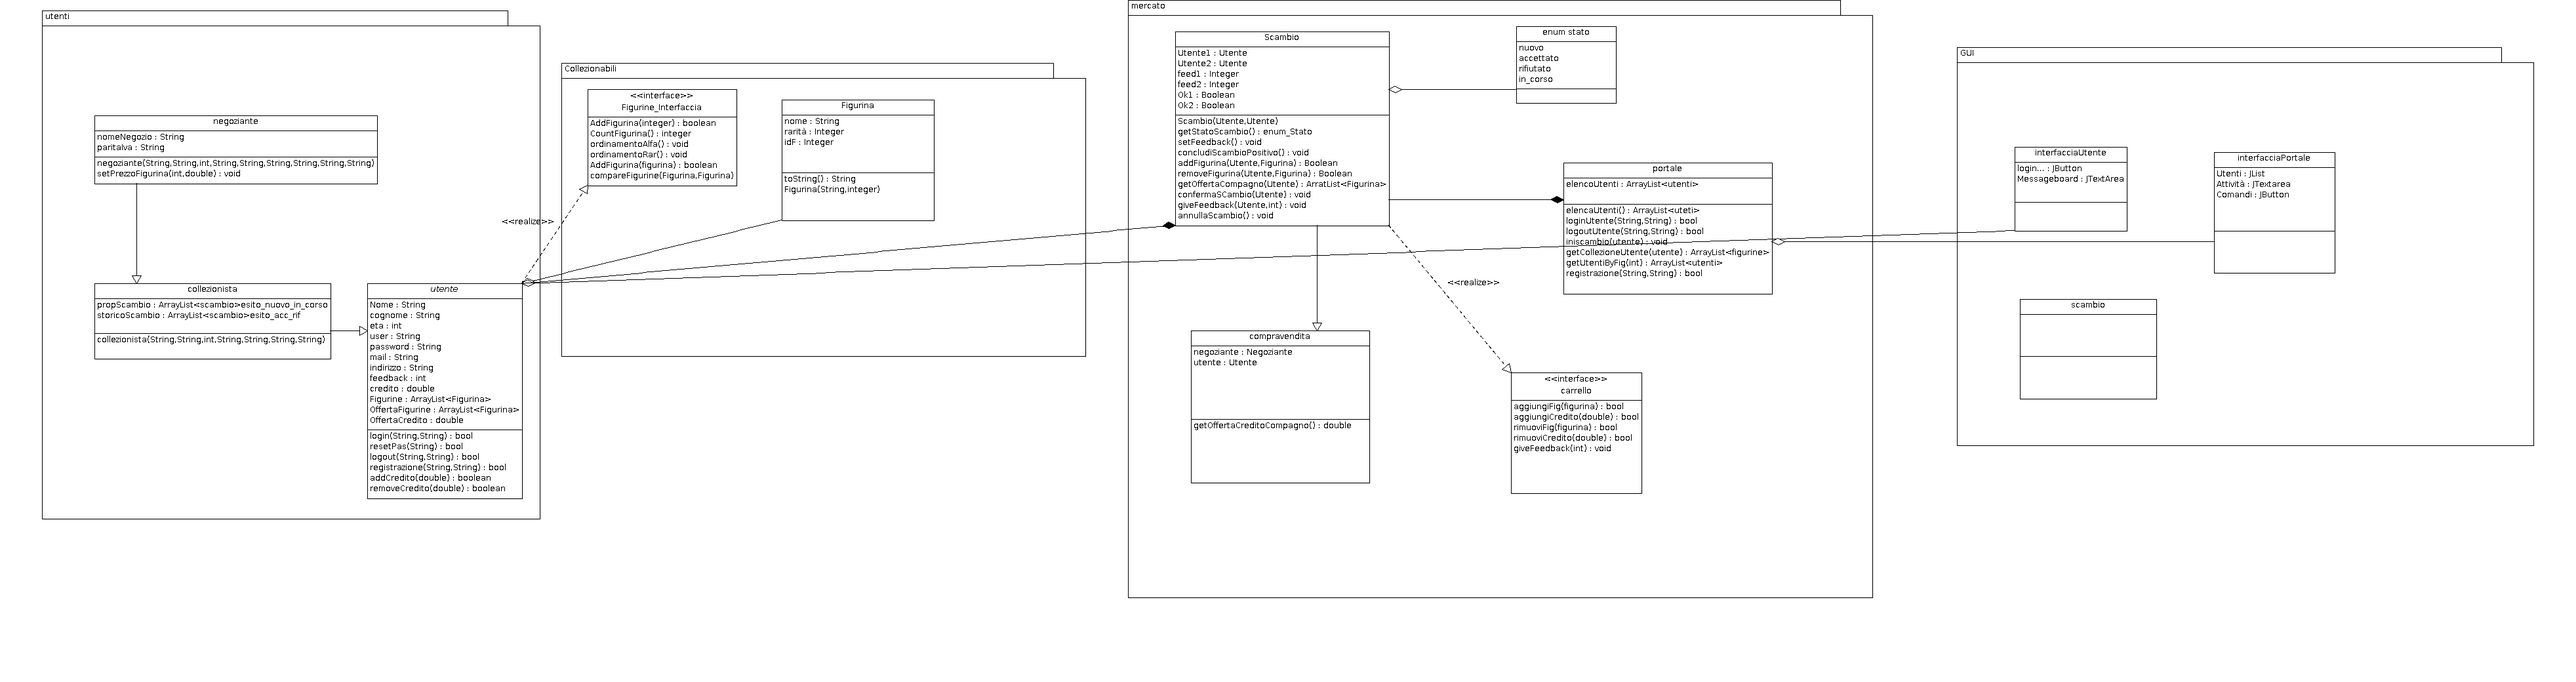
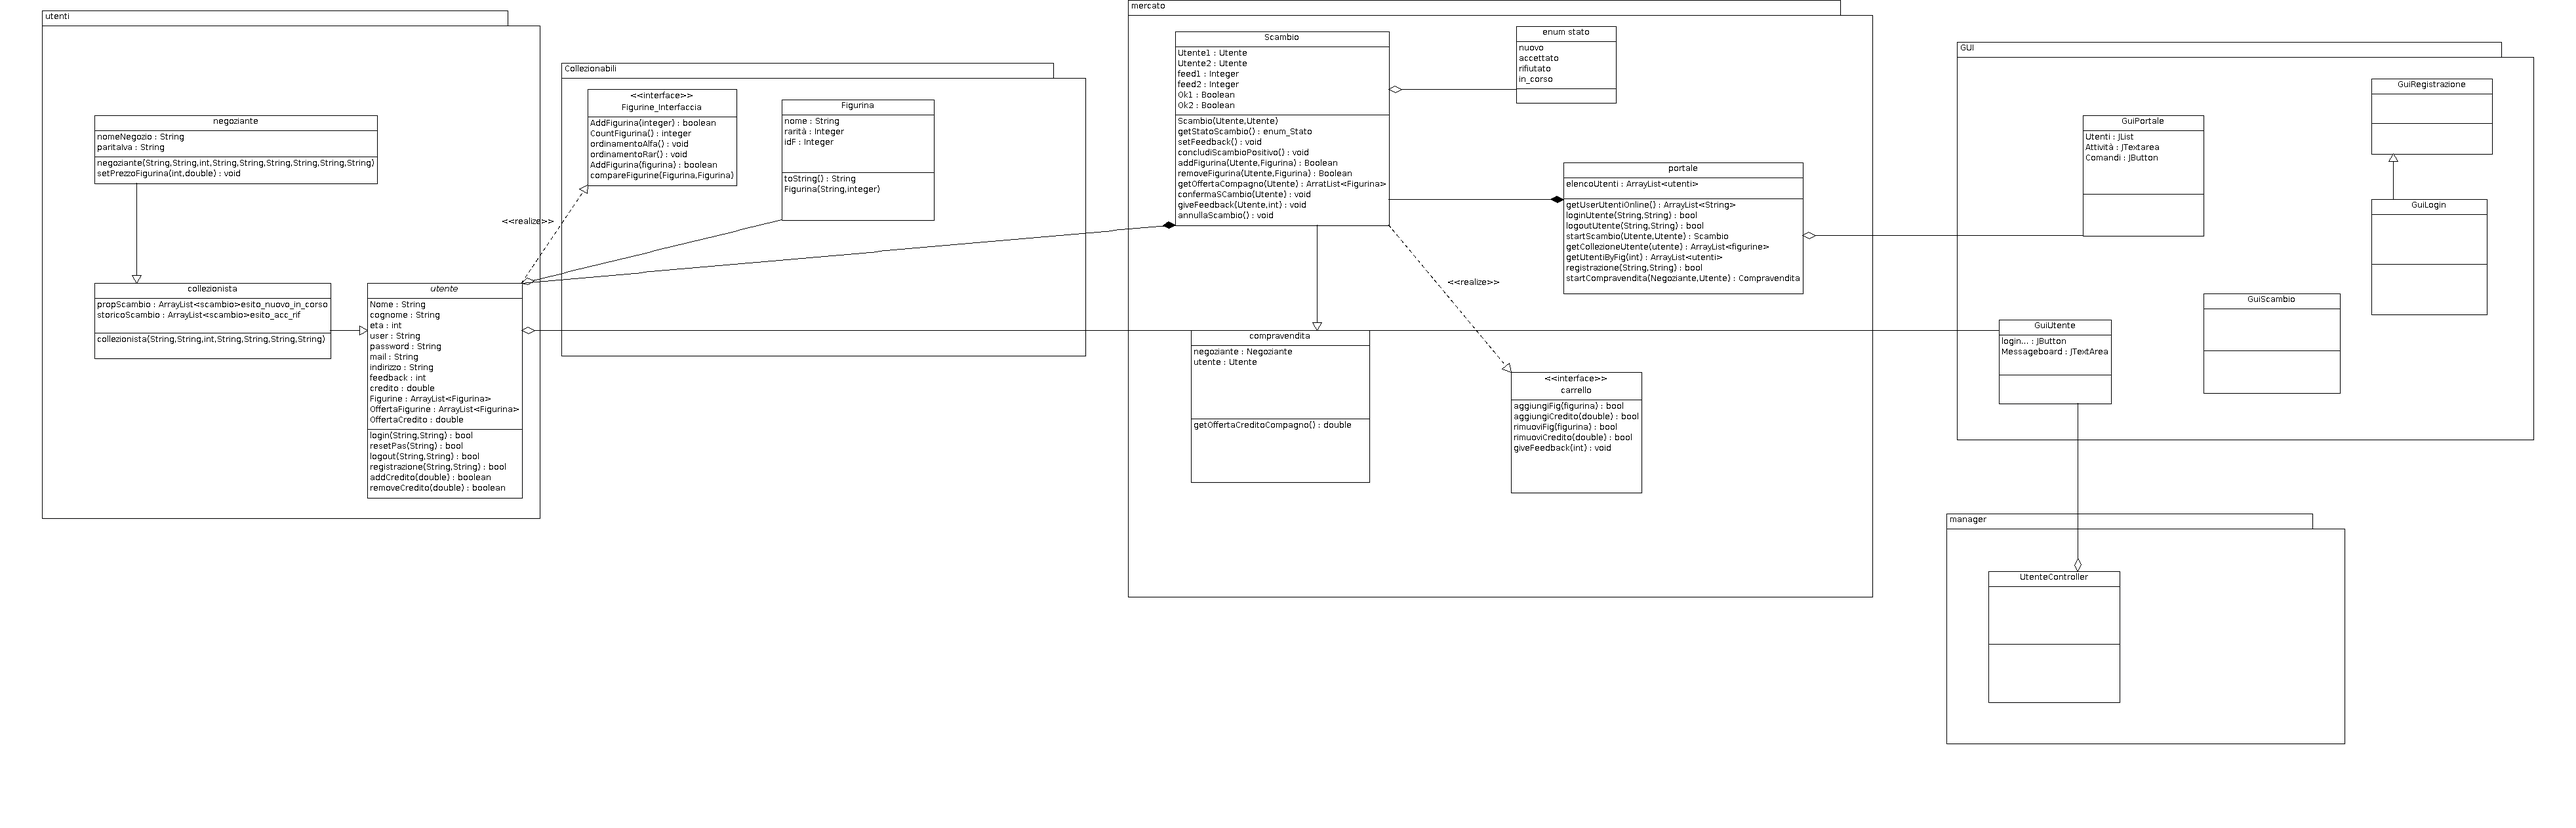
Update UML e Gui Prova

diff --git a/Figurine/src/gui/prova.java b/Figurine/src/gui/prova.java
@@ -1,0 +1,44 @@
+package gui;
+
+import java.awt.EventQueue;
+
+import javax.swing.JFrame;
+
+public class prova {
+
+	private JFrame frame;
+
+	/**
+	 * Launch the application.
+	 */
+	public static void main(String[] args) {
+		EventQueue.invokeLater(new Runnable() {
+			public void run() {
+				try {
+					prova window = new prova();
+					window.frame.setVisible(true);
+				} catch (Exception e) {
+					e.printStackTrace();
+				}
+			}
+		});
+	}
+
+	/**
+	 * Create the application.
+	 */
+	public prova() {
+		initialize();
+	}
+
+	/**
+	 * Initialize the contents of the frame.
+	 */
+	private void initialize() {
+		frame = new JFrame();
+		frame.setBounds(100, 100, 450, 300);
+		frame.setDefaultCloseOperation(JFrame.EXIT_ON_CLOSE);
+		frame.getContentPane().setLayout(null);
+	}
+
+}

diff --git a/Figurine/src/mercato/Portale.java b/Figurine/src/mercato/Portale.java
@@ -126,6 +126,28 @@ public class Portale {
 		
 	}
 	
+	//Ritorna un utente online dato l'indice del vettore
+	private Utente getUtentebyIndex(int ind){
+		
+		return Utenti_Online.get(ind);
+	}
+	
+	
+	//Metodo che ritorna l'elenco user online
+	public ArrayList<String> getUserUtentiOnline(){
+		
+		
+		ArrayList<String> elenco=new ArrayList<>();
+		
+		for(int i=0;i<Utenti_Online.size();i++){
+			
+			elenco.add(Utenti_Online.get(i).getUser());
+			
+		}
+		
+		return elenco;
+	}
+	
 	//Ritorna la collezione di un utente dato lo user, null se non esiste lo user
 	
 	public ArrayList<Figurina> getFigurineByUser(String u){
@@ -175,6 +197,8 @@ public class Portale {
 		return ufin;
 		
 	}
+	
+	//Gestire il primo accesso dell'utente con registrazione
 	
 	
 	

diff --git a/Figurine/src/test/testFigurine.java b/Figurine/src/test/testFigurine.java
@@ -3,7 +3,9 @@
  * To change this template file, choose Tools | Templates
  * and open the template in the editor.
  */
-package collezionabili;
+package test;
+
+import collezionabili.*;
 
 /**
  *

diff --git a/Figurine/src/manager/UtenteController.java b/Figurine/src/manager/UtenteController.java
@@ -1,0 +1,12 @@
+package manager;
+
+
+
+
+
+public class UtenteController {
+	
+	
+	
+
+}

diff --git a/Figurine/src/test/TestSoft.java b/Figurine/src/test/TestSoft.java
@@ -1,4 +1,7 @@
 
+
+package test;
+
 import java.util.*;
 import java.io.*;
 
